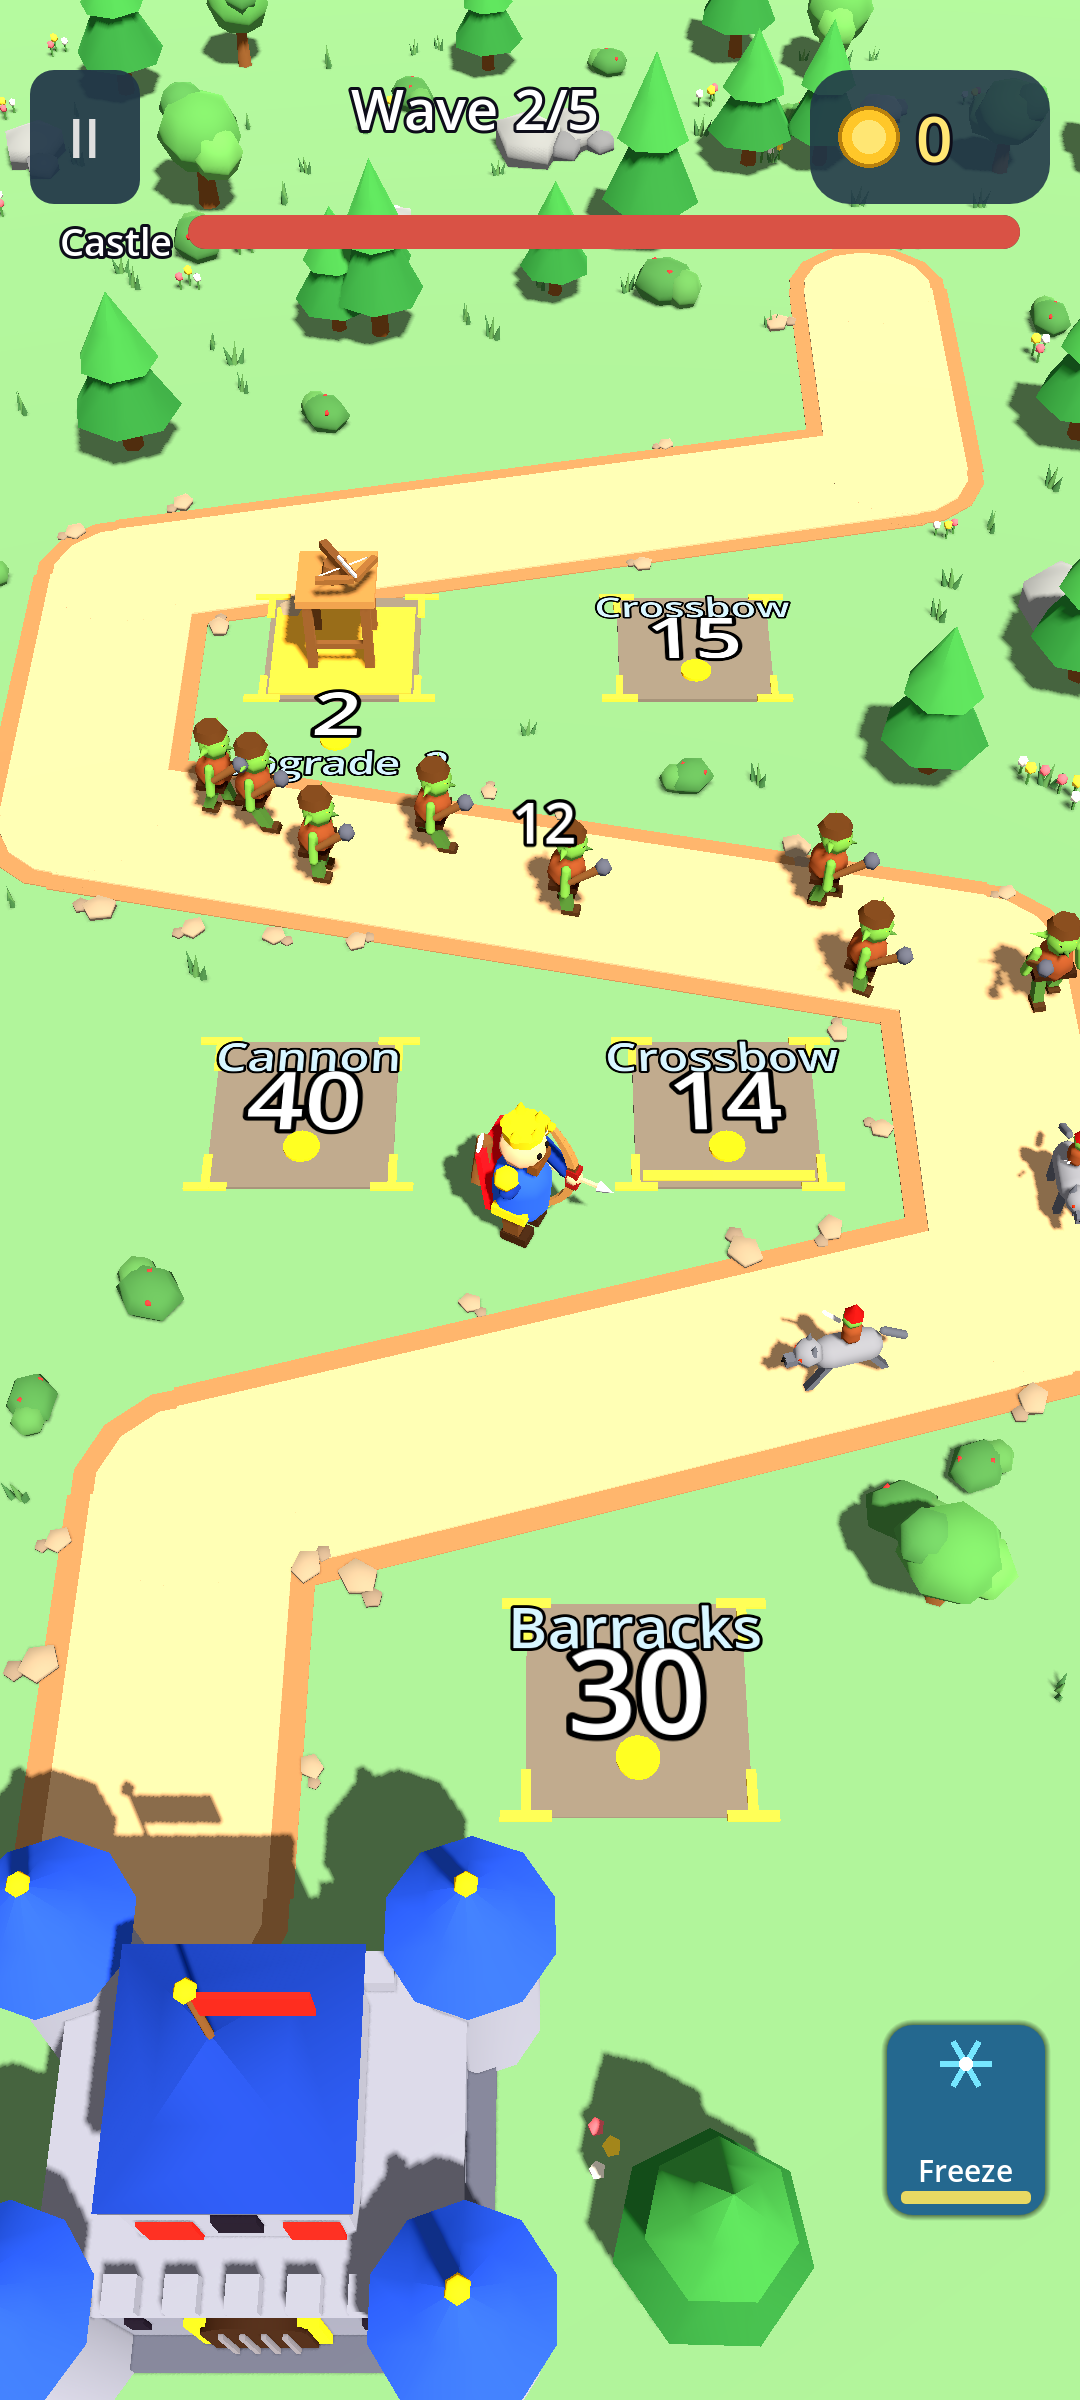
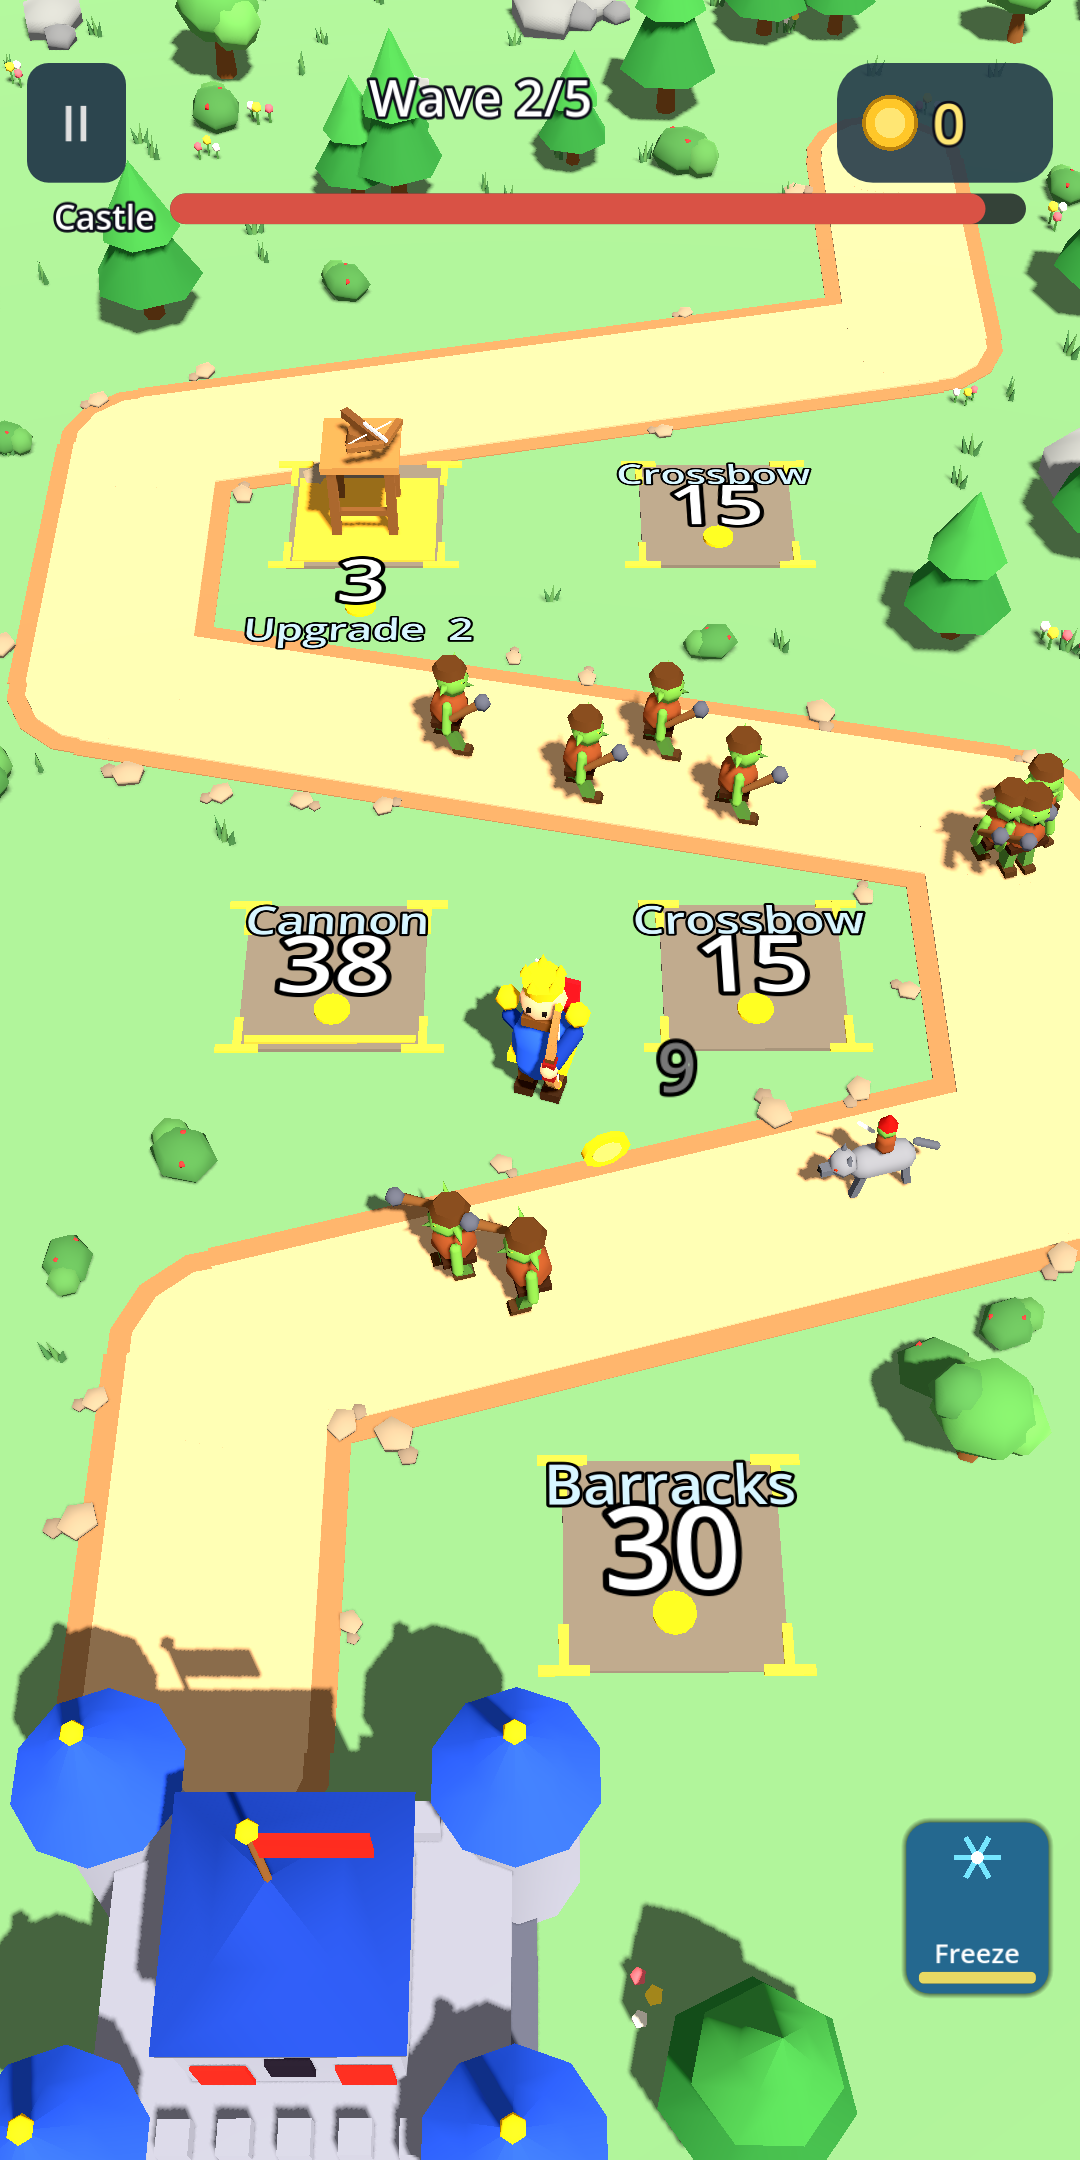
Play package: privacy policy, listing UA/EN, data safety, name check, signing guide, store graphics
Claude-Session: https://claude.ai/code/session_01Vo2zMfmpPBAjaiyM3QAnEB

diff --git a/tools/make_store_assets.py b/tools/make_store_assets.py
@@ -1,0 +1,30 @@
+"""Feature graphic 1024x500 з РЕАЛЬНОГО знімка меню гри + назва. Назву змінити в TITLE за потреби (див. docs/play/NAME_CHECK.md)."""
+from PIL import Image, ImageDraw, ImageFont, ImageFilter
+TITLE = "CROWN RUSH"
+TAG = "Turn gold into towers. Hold the keep."
+menu = Image.open("store/screenshots/00_menu.png").convert("RGB")   # 1080x2160
+g1 = Image.open("store/screenshots/01_meadow.png").convert("RGB")
+W, H = 1024, 500
+canvas = Image.new("RGB", (W, H))
+# правий блок: діорама замку (реальний знімок), ліворуч — геймплей, розмитий як тло
+bg = g1.crop((0, 700, 1080, 700 + int(1080 * H / W))).resize((W, H), Image.LANCZOS).filter(ImageFilter.GaussianBlur(6))
+canvas.paste(bg, (0, 0))
+dio = menu.crop((60, 560, 1020, 1520))          # замок + герой + орда
+dio = dio.resize((560, 560), Image.LANCZOS)
+mask = Image.new("L", dio.size, 0)
+ImageDraw.Draw(mask).rounded_rectangle([0, 0, 559, 559], 40, fill=255)
+canvas.paste(dio, (500, -30), mask)
+ov = Image.new("RGBA", (W, H), (0, 0, 0, 0))
+d = ImageDraw.Draw(ov)
+for x in range(0, 520):
+    d.line([(x, 0), (x, H)], fill=(10, 22, 48, int(200 * (1 - x / 520))))
+canvas = Image.alpha_composite(canvas.convert("RGBA"), ov)
+d = ImageDraw.Draw(canvas)
+f1 = ImageFont.truetype("/usr/share/fonts/truetype/google-fonts/Poppins-Bold.ttf", 70)
+f2 = ImageFont.truetype("/usr/share/fonts/truetype/google-fonts/Poppins-Bold.ttf", 25)
+for dx, dy in [(-3, 0), (3, 0), (0, -3), (0, 3), (3, 3)]:
+    d.text((40 + dx, 160 + dy), TITLE, font=f1, fill=(20, 20, 50))
+d.text((40, 160), TITLE, font=f1, fill=(255, 217, 90))
+d.text((44, 262), TAG, font=f2, fill=(255, 244, 214))
+canvas.convert("RGB").save("store/feature_graphic_1024x500.png")
+Image.open("godot/icon/icon_512.png").convert("RGBA").save("store/icon_512.png")

diff --git a/docs/play/STORE_LISTING.md b/docs/play/STORE_LISTING.md
@@ -1,0 +1,48 @@
+# Google Play — текст лістингу (UA / EN)
+
+> Назва нижче — робоча. **Назва «Crown Rush» вже використовується іншими іграми в Google Play** (див. NAME_CHECK.md). Рішення про фінальну назву — за власником.
+
+## Назва (≤30 символів)
+Робоча: `Crown Rush` · Альтернативи (НЕ перевірені на конфлікти): `Keepfall`, `Gold & Gate`, `Emberkeep`
+
+## Коротко (≤80)
+- UA: Збирай золото, будуй вежі й обороняй замок від орд. Без реклами й мережі.
+- EN: Collect gold, build towers and defend your castle from hordes. No ads, offline.
+
+## Повний опис — Українська
+Збирай золото, будуй вежі та утримай замок!
+
+Ти — король-лучник. Рухайся одним пальцем, стріляй у ворогів і підбирай золото, що випадає з орди. Поклади золото на плиту — і там виросте вежа. Встигни підготувати оборону до наступної хвилі!
+
+• Три різні карти: лука, пустеля, крижана долина
+• Герой-лучник з натягом тятиви й відчутною віддачею
+• Арбалети, гармати та казарми з трьома рівнями прокачки
+• Три типи ворогів: бійці, швидкі бігуни та броньовані важкі
+• Заклинання: Заморожування й Метеор із ручним вибором цілі
+• Вибір нагороди між хвилями — кожен забіг різний
+• Майстерня фортеці: зірки за перемоги дають постійні покращення
+• Прев'ю наступної хвилі, щоб планувати оборону
+• Українська й англійська мови
+• Без реклами, без внутрішніх покупок, без підключення до інтернету
+
+## Full description — English
+Collect gold, build towers, hold the castle!
+
+You are the archer king. Move with one finger, shoot the horde and pick up the gold they drop. Drop gold on a plate and a tower grows there. Prepare your defense before the next wave!
+
+• Three distinct maps: meadow, desert, frozen valley
+• Archer hero with bow draw and recoil
+• Crossbows, cannons and barracks with three upgrade levels
+• Three enemy types: grunts, fast runners and armored brutes
+• Spells: Freeze and Meteor with manual aiming
+• Pick a reward between waves — every run is different
+• Fortress Workshop: stars from victories unlock permanent upgrades
+• Next-wave preview to plan your defense
+• Ukrainian and English
+• No ads, no in-app purchases, no internet required
+
+## Графіка
+- Іконка 512: `store/icon_512.png`
+- Feature graphic 1024×500: `store/feature_graphic_1024x500.png`
+- Телефонні скріншоти 1080×2160 (співвідношення 2:1, дозволене Play): `store/screenshots/`
+Усе — з реальної гри чи згенероване власним кодом (`tools/`).

diff --git a/docs/play/PRIVACY_POLICY.md b/docs/play/PRIVACY_POLICY.md
@@ -1,0 +1,29 @@
+# Privacy Policy / Політика конфіденційності — Crown Rush
+
+_Last updated / Оновлено: 2026-11-15_
+
+> ВЛАСНИКУ: перед подачею підставте `<DEVELOPER_NAME>` і `<CONTACT_EMAIL>` (контакт має бути робочим). Я не вписував вашу пошту у публічний репозиторій.
+
+## English
+**Crown Rush** is an offline single-player game. The developer (`<DEVELOPER_NAME>`) does not collect, transmit, sell or share any personal data.
+
+- **No network access.** The app does not request the INTERNET permission and contains no ads, analytics, crash-reporting, accounts or in-app purchases.
+- **Data stored on your device only:** game settings (language, music/effects, shadows, vibration), progress (stars, upgrades). These stay in the app's private storage and are deleted when you uninstall the app.
+- **Permission used:** `VIBRATE` (haptic feedback; can be turned off in Settings).
+- **Diagnostic report (debug/test builds only):** a local text log may be copied to the clipboard by the user's own action. It is never sent automatically.
+- **Children:** the game does not collect data from anyone, including children.
+- **Changes:** if this ever changes (e.g. ads or online features), this policy and the Play Data safety form will be updated before release.
+
+Contact: `<CONTACT_EMAIL>`
+
+## Українська
+**Crown Rush** — офлайн-гра для одного гравця. Розробник (`<DEVELOPER_NAME>`) не збирає, не передає, не продає й не поширює жодних персональних даних.
+
+- **Без мережі.** Застосунок не запитує дозвіл INTERNET, не містить реклами, аналітики, звітів про збої, облікових записів і внутрішніх покупок.
+- **Дані лише на вашому пристрої:** налаштування (мова, музика/ефекти, тіні, вібрація) та прогрес (зірки, покращення). Вони лежать у приватному сховищі застосунку й видаляються разом із ним.
+- **Дозвіл:** `VIBRATE` (вібровідгук; вимикається в Налаштуваннях).
+- **Діагностичний звіт (лише тестові збірки):** локальний текст може бути скопійований у буфер обміну за вашою дією. Автоматично нікуди не надсилається.
+- **Діти:** гра не збирає даних ні від кого, зокрема від дітей.
+- **Зміни:** якщо з'являться реклама чи онлайн-функції, політику й форму Data safety буде оновлено до випуску.
+
+Контакт: `<CONTACT_EMAIL>`

diff --git a/docs/play/DATA_SAFETY_AND_RATING.md b/docs/play/DATA_SAFETY_AND_RATING.md
@@ -1,0 +1,19 @@
+# Data safety та вікова категорія — підказки для Play Console
+
+Заповнює власник у Play Console; нижче відповіді, які **правдиві для цієї збірки** (перевірено по маніфесту AAB: лише `VIBRATE`, немає INTERNET, немає SDK реклами/аналітики).
+
+## Data safety
+- Збирає чи передає користувацькі дані? **Ні.**
+- Дані шифруються при передачі? Не застосовується (мережі немає).
+- Можна запросити видалення даних? Не застосовується; дані локальні й видаляються разом із застосунком.
+- Політика конфіденційності (URL обов'язковий): див. PRIVACY_POLICY.md (після злиття в `main`: `https://github.com/legioner666/Game-/blob/main/docs/play/PRIVACY_POLICY.md`; краще опублікувати на власній сторінці).
+
+## Інші декларації
+- Реклама: **ні**. Внутрішні покупки: **ні**. Доступ до облікових записів: **ні**.
+- Цільова аудиторія: **13+ / загальна**, не «для дітей» (не вказувати Families, інакше вимоги суворіші).
+- Анкета IARC: мультяшне фентезійне насильство (гобліни, лук, гармати), без крові, без азартних ігор, без UGC, без покупок. Підсумкову категорію видасть IARC; не обіцяти її в лістингу.
+- Категорія: Games → Strategy (або Action).
+- Країни/регіони: за вибором власника.
+
+## Тести перед виробничим релізом
+Нові особисті акаунти Play (створені після 13.11.2023) вимагають закритого тестування: **12 тестувальників × 14 днів поспіль** перед доступом до production — перевірити у Play Console свій тип акаунта (https://support.google.com/googleplay/android-developer/answer/14151465).

diff --git a/docs/play/RELEASE_SIGNING.md b/docs/play/RELEASE_SIGNING.md
@@ -1,0 +1,17 @@
+# Підпис релізу (Google Play App Signing)
+
+Приватні ключі в репозиторії **не зберігаються**. Debug-ключ `.github/debug.keystore` публічний і не придатний для Play.
+
+## 1. Створити upload-ключ (один раз, локально)
+`bash tools/make_upload_key.sh` — створить `crownrush-upload.keystore` і виведе значення для секретів. Збережіть файл і паролі в менеджері паролів (втрата ключа = складне відновлення через Play Support).
+
+## 2. Додати GitHub Secrets (Settings → Secrets → Actions)
+- `ANDROID_RELEASE_KEYSTORE_B64` — base64 keystore
+- `ANDROID_RELEASE_KEY_ALIAS` — alias (за замовчуванням `crownrush`)
+- `ANDROID_RELEASE_KEYSTORE_PASSWORD` — пароль (однаковий для store і key)
+
+## 3. Запустити workflow `Release AAB (Play candidate)`
+Без секретів workflow збирає лише `…VALIDATION-debug-signed-NOT-FOR-PLAY.aab`. З секретами — `crown-rush-release-signed.aab` (артефакт запуску, не публічний реліз), перевірка: package, versionCode, targetSdk=36, не debuggable.
+
+## 4. Завантаження
+Play Console → Release → Internal testing → Create release → увімкнути Play App Signing → завантажити AAB. Production — лише після виконання вимог тестування акаунта.

diff --git a/docs/play/NAME_CHECK.md b/docs/play/NAME_CHECK.md
@@ -1,0 +1,9 @@
+# Перевірка назви
+
+Пошук 2026-11-15 (WebSearch, не юридичний висновок):
+- **Crown Rush** — існує гра Gameduo (idle-стратегія, Android+iOS, free з IAP): PocketGamer, DroidGamers, AndroGaming. Існує також застосунок розробника `crownrushstudio` (appgoblin).
+- Близькі назви: Crownguard (Google Play, 2026), Keep the Crown, Crown Defense: Hero Survivors, Castle Rush, Tower Rush.
+
+**Висновок: назва «Crown Rush» — ризик (P0 для публікації):** той самий жанр, та сама назва. Рекомендую змінити назву до подачі. Запропоновані назви (`Keepfall`, `Gold & Gate`, `Emberkeep`) я НЕ перевіряв — потрібен пошук у Play/USPTO/EUIPO.
+
+Як змінити за 1 хв: `godot/i18n.gd` (ключ `title`), `godot/project.godot` (`config/name`), `godot/export_presets.cfg` (`package/name`, preset «Android Release»), `tools/make_store_assets.py` (TITLE), перегенерувати `store/`.
